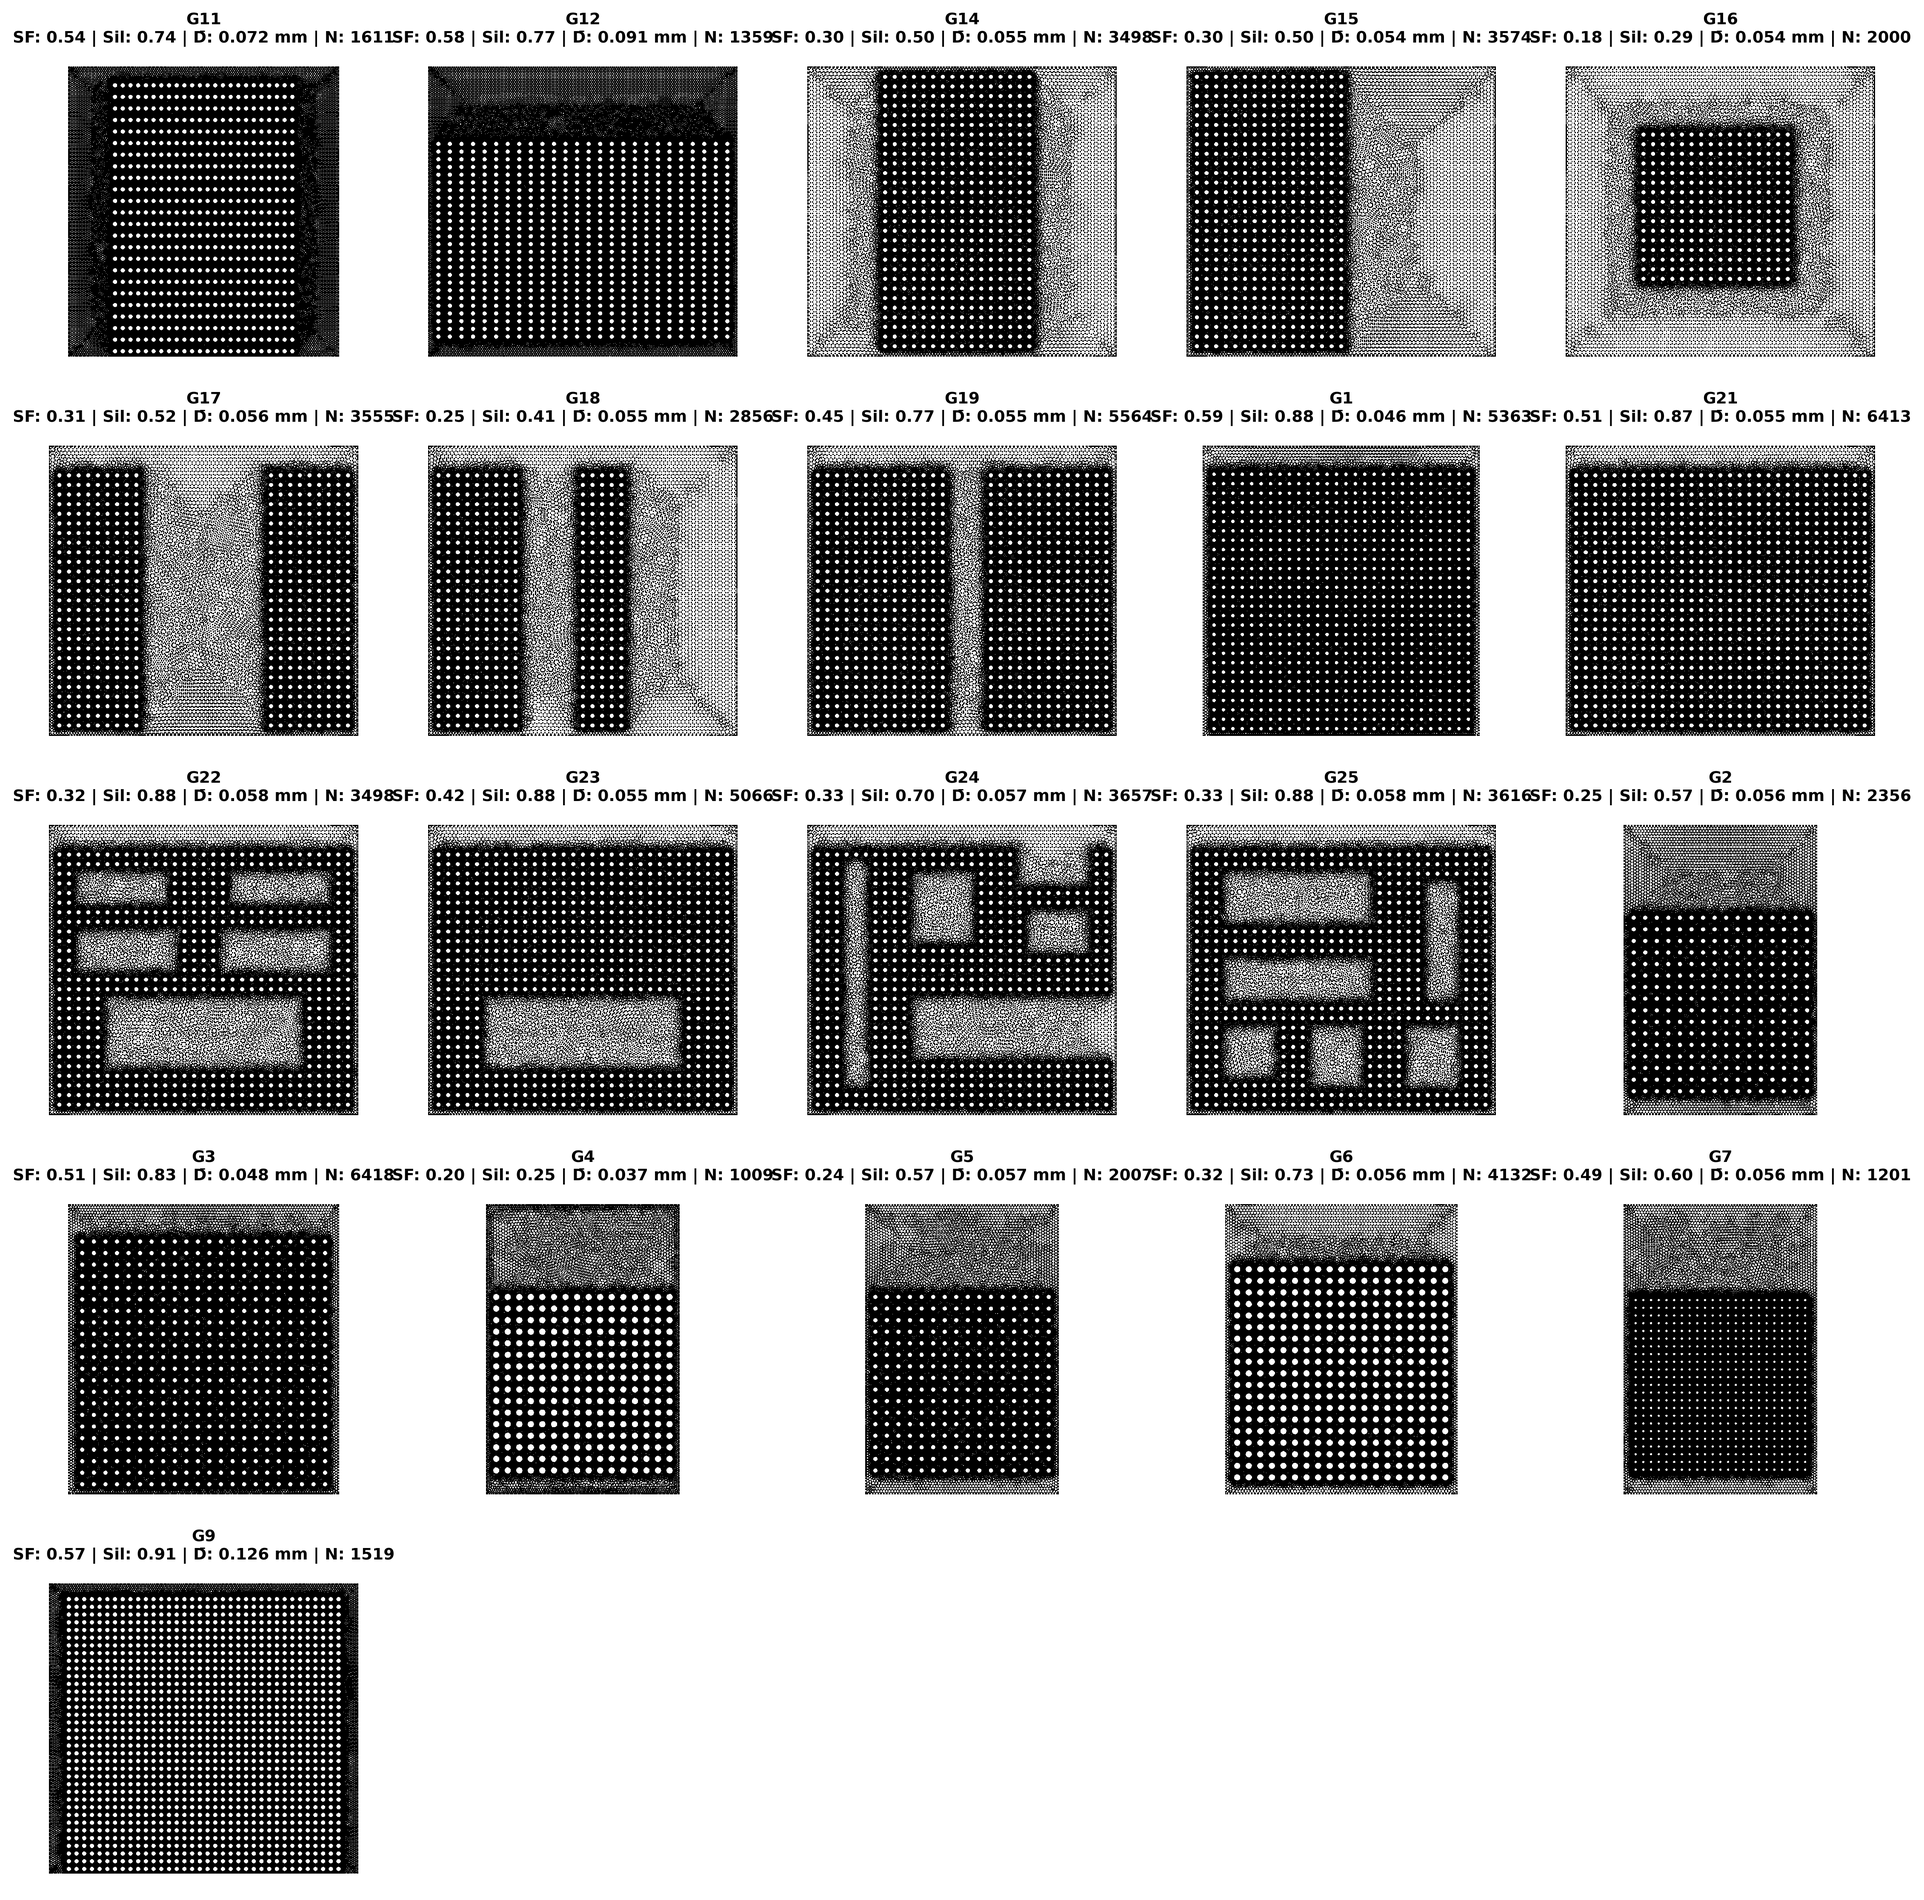
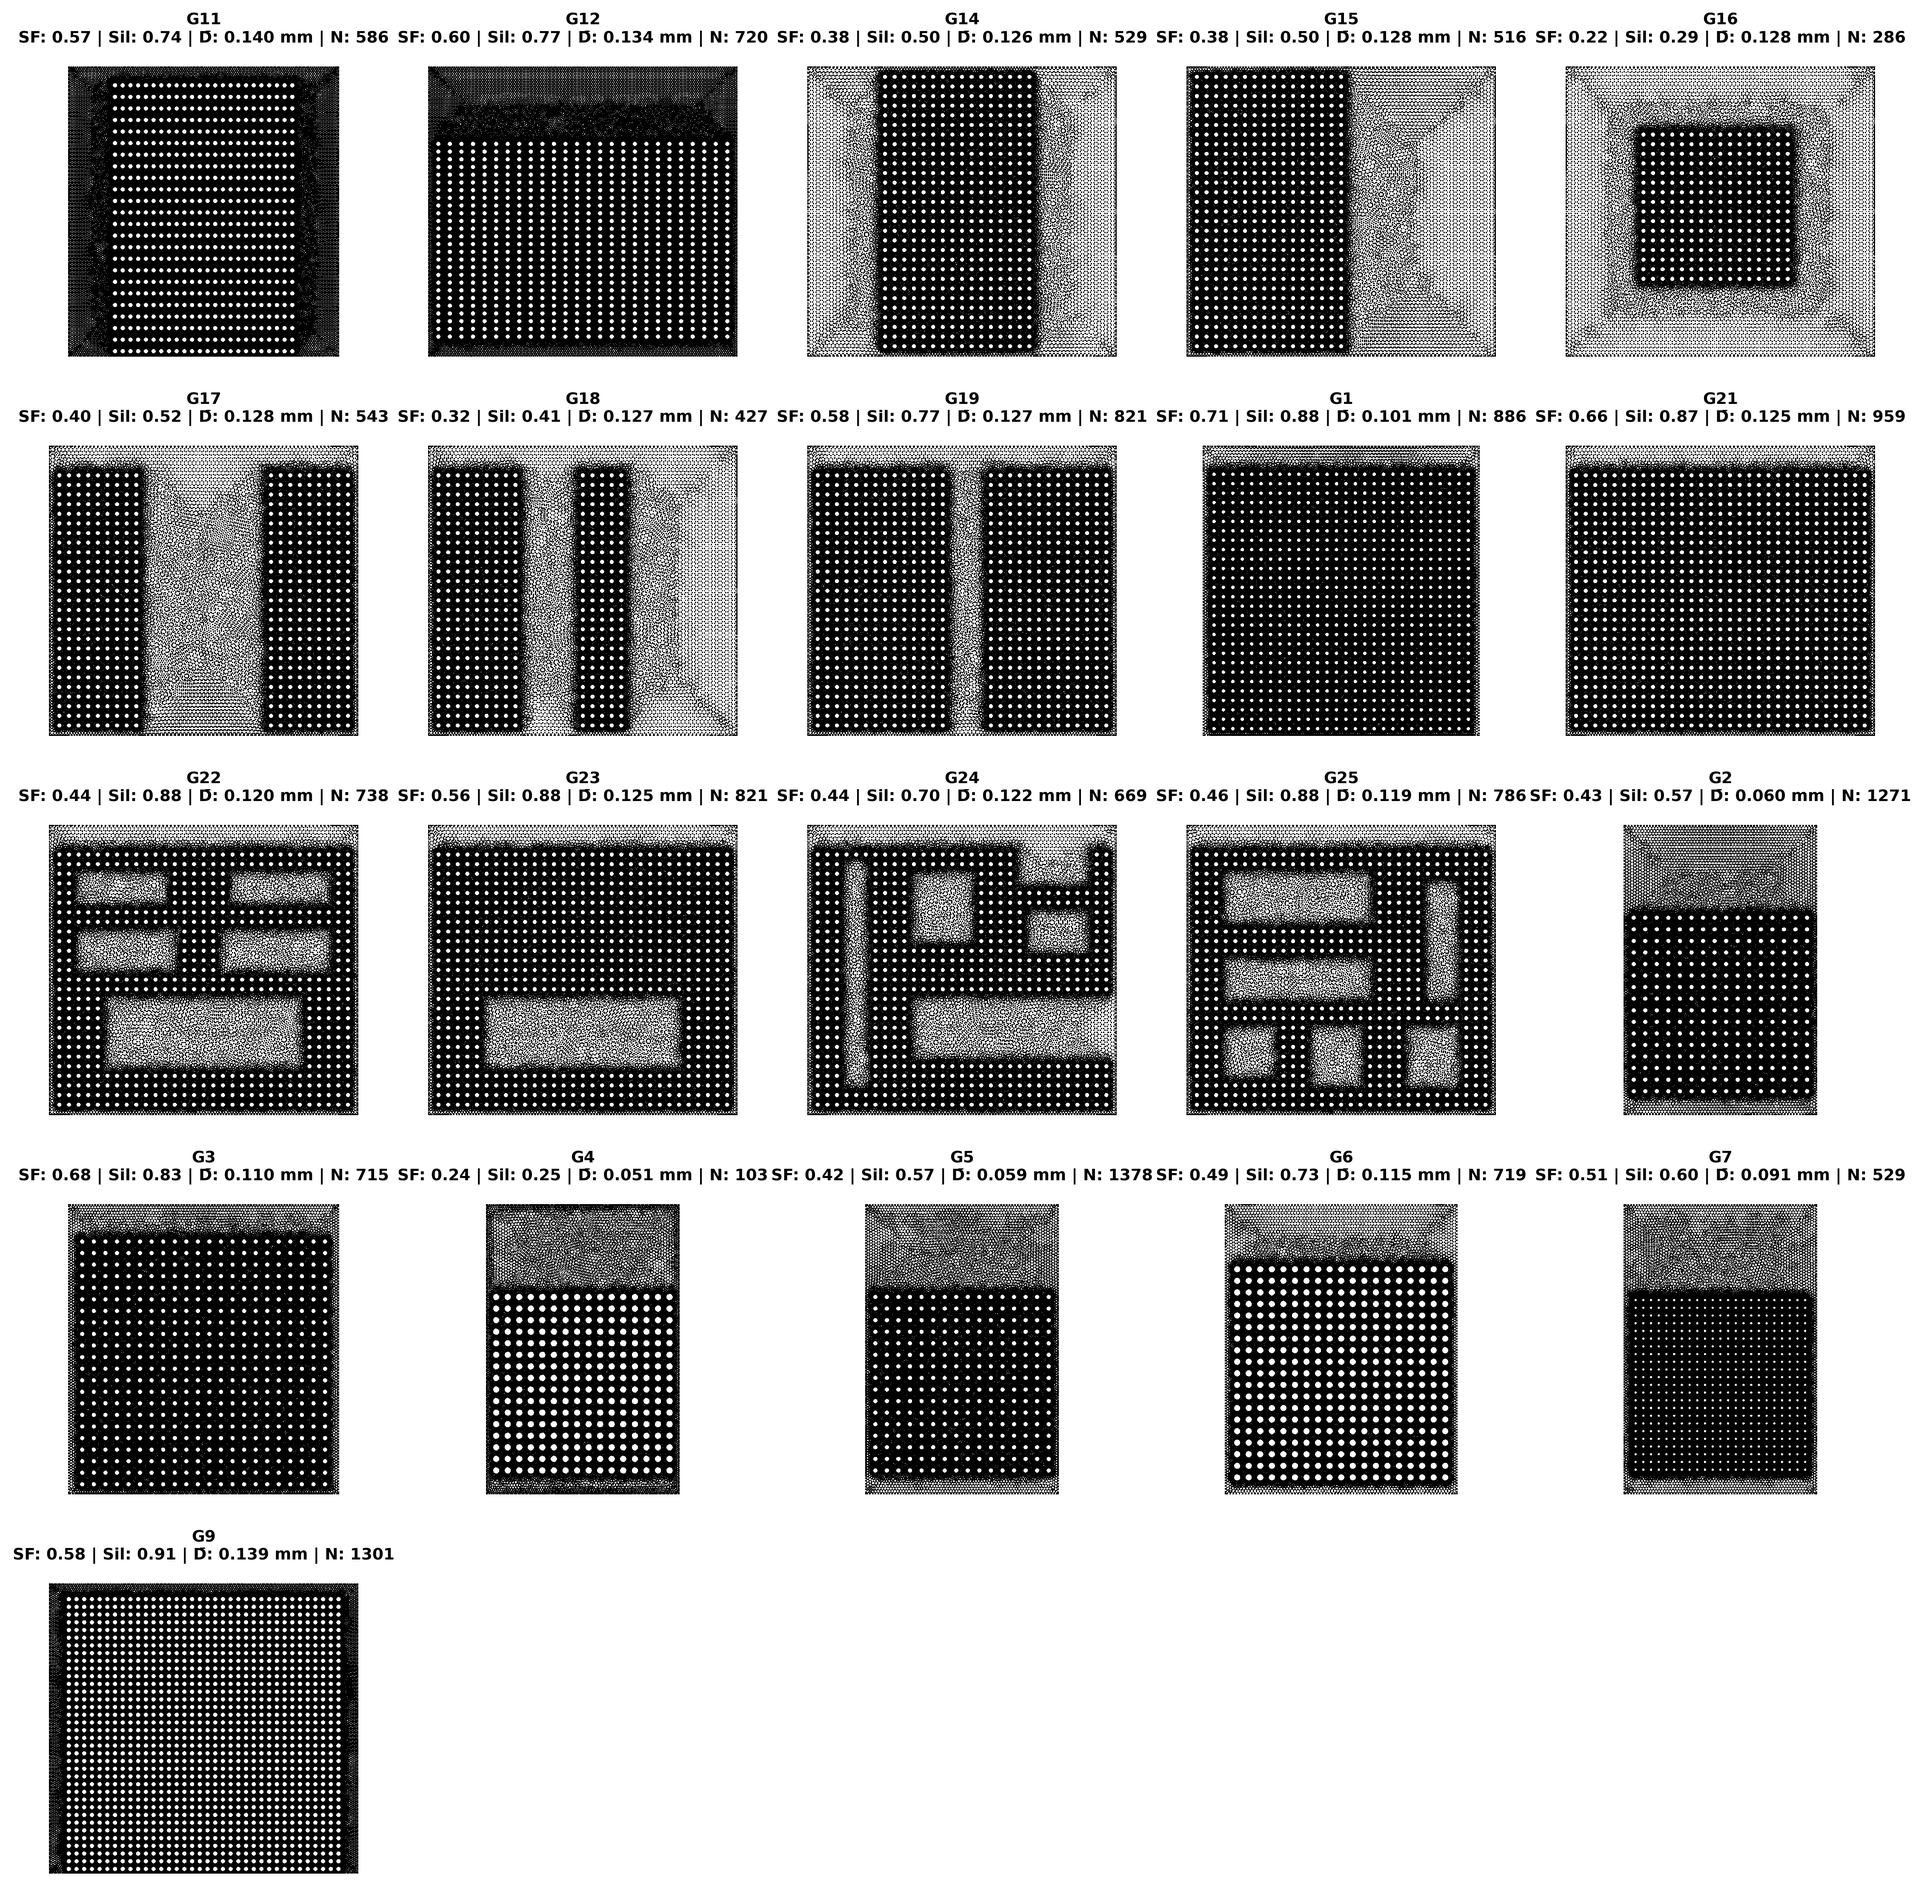
adding new image geometry_variation to readme

diff --git a/examples/cfd/underfill_dispensing/README.md b/examples/cfd/underfill_dispensing/README.md
@@ -66,8 +66,8 @@ The table below summarizes the model's performance across 19 autoregressive time
 ## Dataset Diversity
 
 The 21 simulation cases span a broad geometric envelope rather than minor
-variants of a single configuration: solid fraction varies from 0.18 to 0.59,
-equivalent hole diameter from 0.038 to 0.126 mm, and the spatial layout
+variants of a single configuration: solid fraction varies from 0.22 to 0.71,
+equivalent hole diameter from 0.051 to 0.140 mm, and the spatial layout
 ranges from uniform hole grids to asymmetric multi-void patterns. This
 coverage is what allows the surrogate to generalize from only 20 training
 samples.
@@ -83,10 +83,11 @@ samples.
 
 | Metric | Mean | Range | CV |
 |---|---|---|---|
-| Solid Fraction | 0.38 | 0.18 – 0.59 | 0.34 |
-| Hole Diameter (mm) | 0.060 | 0.038 – 0.126 | 0.29 |
+| Solid Fraction | 0.48 | 0.22 – 0.71 | 0.27 |
+| Hole Diameter (mm) | 0.113 | 0.051 – 0.140 | 0.23 |
+| Hole Count | 729 | 103 – 1378 | — |
 
-The dataset achieves a **Composite Versatility Index of 0.38** — within the
+The dataset achieves a **Composite Versatility Index of 0.31** — within the
 *high-diversity* band (0.25 – 0.50) — meaning each training case contributes
 substantively new geometric information rather than redundancy.
 
